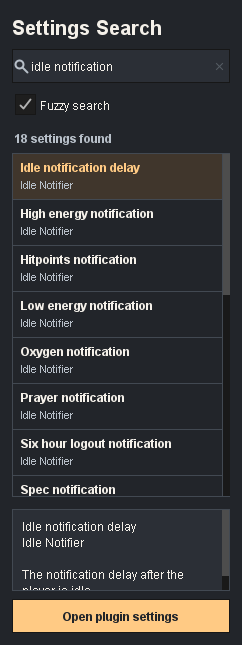
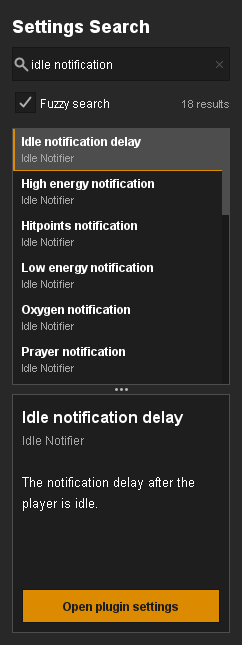
Expand and resize the setting description pane

diff --git a/src/main/java/com/settingssearch/SettingsSearchPanel.java b/src/main/java/com/settingssearch/SettingsSearchPanel.java
@@ -1,6 +1,7 @@
 package com.settingssearch;
 
 import java.awt.BorderLayout;
+import java.awt.CardLayout;
 import java.awt.Color;
 import java.awt.Component;
 import java.awt.Dimension;
@@ -23,8 +24,10 @@ import javax.swing.JLabel;
 import javax.swing.JList;
 import javax.swing.JPanel;
 import javax.swing.JScrollPane;
+import javax.swing.JSplitPane;
 import javax.swing.JTextArea;
 import javax.swing.JTextField;
+import javax.swing.JTextPane;
 import javax.swing.KeyStroke;
 import javax.swing.ListCellRenderer;
 import javax.swing.ListSelectionModel;
@@ -32,17 +35,23 @@ import javax.swing.ScrollPaneConstants;
 import javax.swing.Timer;
 import javax.swing.event.DocumentEvent;
 import javax.swing.event.DocumentListener;
+import javax.swing.text.SimpleAttributeSet;
+import javax.swing.text.StyleConstants;
+import javax.swing.text.StyledDocument;
+import net.runelite.client.ui.ColorScheme;
 import net.runelite.client.ui.PluginPanel;
 
 final class SettingsSearchPanel extends PluginPanel
 {
-	private static final Color CANVAS = new Color(0x22252A);
-	private static final Color SURFACE = new Color(0x2B2F36);
-	private static final Color LINE = new Color(0x424952);
-	private static final Color TEXT = new Color(0xF4F0E9);
-	private static final Color MUTED = new Color(0xB7BFC8);
-	private static final Color ACCENT = new Color(0xFFCA84);
-	private static final Color SELECTED = new Color(0x40362C);
+	private static final Color CANVAS = ColorScheme.DARK_GRAY_COLOR;
+	private static final Color SURFACE = ColorScheme.DARKER_GRAY_COLOR;
+	private static final Color LINE = ColorScheme.MEDIUM_GRAY_COLOR;
+	private static final Color TEXT = Color.WHITE;
+	private static final Color MUTED = ColorScheme.LIGHT_GRAY_COLOR;
+	private static final Color ACCENT = ColorScheme.BRAND_ORANGE;
+	private static final int ROW_HEIGHT = 42;
+	private static final String MATCHES = "matches";
+	private static final String MESSAGE = "message";
 	private static final Font BODY = new Font(Font.SANS_SERIF, Font.PLAIN, 12);
 	private static final Font SMALL = BODY.deriveFont(11f);
 	private static final Font BOLD = BODY.deriveFont(Font.BOLD);
@@ -54,12 +63,13 @@ final class SettingsSearchPanel extends PluginPanel
 	private final JLabel status = new JLabel();
 	private final DefaultListModel<Setting> model = new DefaultListModel<>();
 	private final JList<Setting> results = new JList<>(model);
-	private final JPanel content = new JPanel(new BorderLayout());
+	private final CardLayout cards = new CardLayout();
+	private final JPanel content = new JPanel(cards);
 	private final JPanel message = new JPanel(new BorderLayout(0, 10));
 	private final JTextArea messageText = textArea(3, MUTED);
 	private final JPanel suggestions = new JPanel(new GridLayout(0, 1, 0, 5));
 	private final JPanel preview = new JPanel(new BorderLayout(0, 8));
-	private final JTextArea details = textArea(4, TEXT);
+	private final JTextPane details = new JTextPane();
 	private final JButton open = new JButton("Open plugin settings");
 	private final JScrollPane listScroll = scrollPane(results);
 	private final Timer searchTimer = new Timer(100, event -> search());
@@ -79,7 +89,7 @@ final class SettingsSearchPanel extends PluginPanel
 		setBackground(CANVAS);
 
 		JLabel title = new JLabel("Settings Search");
-		title.setFont(BODY.deriveFont(Font.BOLD, 20f));
+		title.setFont(BODY.deriveFont(Font.BOLD, 18f));
 		title.setForeground(TEXT);
 		title.setLabelFor(query);
 		query.setFont(BODY);
@@ -105,26 +115,27 @@ final class SettingsSearchPanel extends PluginPanel
 		header.setOpaque(false);
 		header.add(title, BorderLayout.NORTH);
 		header.add(query, BorderLayout.CENTER);
-		header.add(fuzzy, BorderLayout.SOUTH);
+		JPanel options = new JPanel(new BorderLayout(5, 0));
+		options.setOpaque(false);
+		status.setFont(SMALL);
+		status.setForeground(MUTED);
+		options.add(fuzzy, BorderLayout.WEST);
+		options.add(status, BorderLayout.EAST);
+		header.add(options, BorderLayout.SOUTH);
 		add(header, BorderLayout.NORTH);
 
-		status.setFont(BOLD);
-		status.setForeground(MUTED);
-		status.setBorder(BorderFactory.createEmptyBorder(0, 2, 7, 0));
-		results.setBackground(CANVAS);
+		results.setBackground(SURFACE);
 		results.setSelectionMode(ListSelectionModel.SINGLE_SELECTION);
 		results.setCellRenderer(new SettingRenderer());
-		results.setFixedCellHeight(46);
+		results.setFixedCellHeight(ROW_HEIGHT);
 		results.getAccessibleContext().setAccessibleName("Matching settings");
-		listScroll.setBorder(BorderFactory.createMatteBorder(1, 0, 1, 0, LINE));
-		listScroll.getViewport().setBackground(CANVAS);
-		listScroll.getVerticalScrollBar().setUnitIncrement(46);
+		listScroll.setBorder(BorderFactory.createLineBorder(LINE));
+		listScroll.getViewport().setBackground(SURFACE);
+		listScroll.getVerticalScrollBar().setUnitIncrement(ROW_HEIGHT);
+		listScroll.setPreferredSize(new Dimension(0, ROW_HEIGHT * 4));
+		listScroll.setMinimumSize(new Dimension(0, ROW_HEIGHT * 2));
 		content.setOpaque(false);
-		JPanel resultsPanel = new JPanel(new BorderLayout());
-		resultsPanel.setOpaque(false);
-		resultsPanel.add(status, BorderLayout.NORTH);
-		resultsPanel.add(content, BorderLayout.CENTER);
-		add(resultsPanel, BorderLayout.CENTER);
+		add(content, BorderLayout.CENTER);
 
 		message.setOpaque(false);
 		message.setBorder(BorderFactory.createEmptyBorder(8, 2, 0, 2));
@@ -150,20 +161,36 @@ final class SettingsSearchPanel extends PluginPanel
 		messageBody.add(suggestions, BorderLayout.NORTH);
 		message.add(messageBody, BorderLayout.CENTER);
 
+		details.setFont(BODY.deriveFont(13f));
+		details.setEditable(false);
 		details.setBackground(SURFACE);
-		details.setOpaque(true);
-		details.setBorder(BorderFactory.createEmptyBorder(8, 9, 8, 9));
+		details.setForeground(TEXT);
+		details.setBorder(BorderFactory.createEmptyBorder(2, 0, 4, 4));
 		details.getAccessibleContext().setAccessibleName("Selected setting description");
 		JScrollPane detailScroll = scrollPane(details);
-		detailScroll.setBorder(BorderFactory.createLineBorder(LINE));
+		detailScroll.getViewport().setBackground(SURFACE);
+		detailScroll.setBorder(BorderFactory.createEmptyBorder());
+
 		open.setFont(BOLD);
-		open.setForeground(CANVAS);
+		open.setForeground(SURFACE);
 		open.setBackground(ACCENT);
 		open.setPreferredSize(new Dimension(160, 34));
-		preview.setOpaque(false);
+		preview.setBackground(SURFACE);
+		preview.setBorder(BorderFactory.createCompoundBorder(BorderFactory.createLineBorder(LINE),
+			BorderFactory.createEmptyBorder(9, 9, 9, 9)));
+		preview.setPreferredSize(new Dimension(0, 162));
+		preview.setMinimumSize(new Dimension(0, 100));
 		preview.add(detailScroll, BorderLayout.CENTER);
 		preview.add(open, BorderLayout.SOUTH);
-		add(preview, BorderLayout.SOUTH);
+
+		JSplitPane split = new JSplitPane(JSplitPane.VERTICAL_SPLIT, true, listScroll, preview);
+		split.setBackground(CANVAS);
+		split.setBorder(BorderFactory.createEmptyBorder());
+		split.setDividerSize(9);
+		split.setResizeWeight(0.54);
+		split.getAccessibleContext().setAccessibleName("Resize search results and setting description");
+		content.add(split, MATCHES);
+		content.add(message, MESSAGE);
 
 		query.getDocument().addDocumentListener(new DocumentListener()
 		{
@@ -218,7 +245,7 @@ final class SettingsSearchPanel extends PluginPanel
 				results.requestFocusInWindow();
 			}
 		});
-		showMessage("Try a search", "Search across your installed plugins by name or keyword.", true);
+		showMessage("", "Search across your installed plugins by name or keyword.", true);
 		showSelection();
 	}
 
@@ -267,7 +294,7 @@ final class SettingsSearchPanel extends PluginPanel
 		String text = query.getText();
 		if (SettingSearch.normalize(text).isEmpty())
 		{
-			showMessage("Try a search", "Search across your installed plugins by name or keyword.", true);
+			showMessage("", "Search across your installed plugins by name or keyword.", true);
 			return;
 		}
 
@@ -280,12 +307,12 @@ final class SettingsSearchPanel extends PluginPanel
 		{
 			String hint = fuzzy.isSelected() ? "Try fewer words or a different keyword."
 				: "Try fewer words or enable Fuzzy search to find close matches.";
-			showMessage("No matching settings", hint, false);
+			showMessage("0 results", "No matching settings.\n" + hint, false);
 			return;
 		}
 
-		status.setText(matches.size() == 1 ? "1 setting found" : matches.size() + " settings found");
-		showContent(listScroll);
+		status.setText(matches.size() == 1 ? "1 result" : matches.size() + " results");
+		cards.show(content, MATCHES);
 		model.addAll(matches);
 		results.setSelectedIndex(0);
 		results.ensureIndexIsVisible(0);
@@ -296,28 +323,40 @@ final class SettingsSearchPanel extends PluginPanel
 		status.setText(heading);
 		messageText.setText(body);
 		suggestions.setVisible(showSuggestions);
-		showContent(message);
-	}
-
-	private void showContent(JComponent component)
-	{
-		if (component.getParent() != content)
-		{
-			content.removeAll();
-			content.add(component, BorderLayout.CENTER);
-			content.revalidate();
-			content.repaint();
-		}
+		cards.show(content, MESSAGE);
 	}
 
 	private void showSelection()
 	{
 		Setting selected = results.getSelectedValue();
-		preview.setVisible(selected != null);
 		open.setEnabled(selected != null);
-		details.setText(selected == null ? "" : selected.name + "\n" + selected.location()
-			+ (selected.description.isBlank() ? "" : "\n\n" + selected.description));
+		if (selected == null)
+		{
+			details.setText("");
+			return;
+		}
+
+		String location = selected.location();
+		details.setText(selected.name + "\n" + location + "\n\n" + selected.description);
+		StyledDocument document = details.getStyledDocument();
+		document.setCharacterAttributes(0, document.getLength(), detailStyle(TEXT, 13, false), true);
+		document.setCharacterAttributes(0, selected.name.length(), detailStyle(TEXT, 16, true), true);
+		document.setCharacterAttributes(selected.name.length() + 1, location.length(),
+			detailStyle(MUTED, 12, false), true);
+		SimpleAttributeSet spacing = new SimpleAttributeSet();
+		StyleConstants.setLineSpacing(spacing, 0.18f);
+		document.setParagraphAttributes(0, document.getLength(), spacing, false);
 		details.setCaretPosition(0);
+	}
+
+	private static SimpleAttributeSet detailStyle(Color foreground, int size, boolean bold)
+	{
+		SimpleAttributeSet style = new SimpleAttributeSet();
+		StyleConstants.setFontFamily(style, BODY.getFamily());
+		StyleConstants.setForeground(style, foreground);
+		StyleConstants.setFontSize(style, size);
+		StyleConstants.setBold(style, bold);
+		return style;
 	}
 
 	private void openSelected()
@@ -375,19 +414,19 @@ final class SettingsSearchPanel extends PluginPanel
 		{
 			name.setText(setting.name);
 			location.setText(setting.location());
-			name.setForeground(selected ? ACCENT : TEXT);
+			name.setForeground(TEXT);
 			location.setForeground(MUTED);
-			setBackground(selected ? SELECTED : CANVAS);
+			setBackground(selected ? LINE : SURFACE);
 			setBorder(BorderFactory.createCompoundBorder(
-				BorderFactory.createMatteBorder(0, 1, 1, 1, focused ? ACCENT : LINE),
-				BorderFactory.createEmptyBorder(5, 8, 5, 8)));
+				BorderFactory.createMatteBorder(0, 2, 1, 0, selected || focused ? ACCENT : SURFACE),
+				BorderFactory.createEmptyBorder(4, 7, 4, 8)));
 			return this;
 		}
 
 		@Override
 		public Dimension getPreferredSize()
 		{
-			return new Dimension(PANEL_WIDTH - 40, 46);
+			return new Dimension(PANEL_WIDTH - 40, ROW_HEIGHT);
 		}
 	}
 }

diff --git a/README.md b/README.md
@@ -10,6 +10,6 @@ Open **Plugin Hub** in RuneLite, search for **Settings Search**, and click **Ins
 
 - Open the magnifying glass in the RuneLite sidebar and try `idle notification` or `zoom limit`.
 - **Fuzzy search** matches common typos such as `notificaiton`. Hover over the checkbox for an explanation. RuneLite remembers the choice in the current profile.
-- Select a result to see its plugin, section, and description. Double-click it or use **Open plugin settings** to jump to the plugin's configuration page.
+- Select a result to read its description. Drag the divider to give the results or description more room. Double-click the result or use **Open plugin settings** to jump to the plugin's configuration page.
 
 The index uses metadata from RuneLite's standard configuration panels. It includes RuneLite and Chat Color. Custom controls outside the standard panels are outside its scope. Searches run locally.
